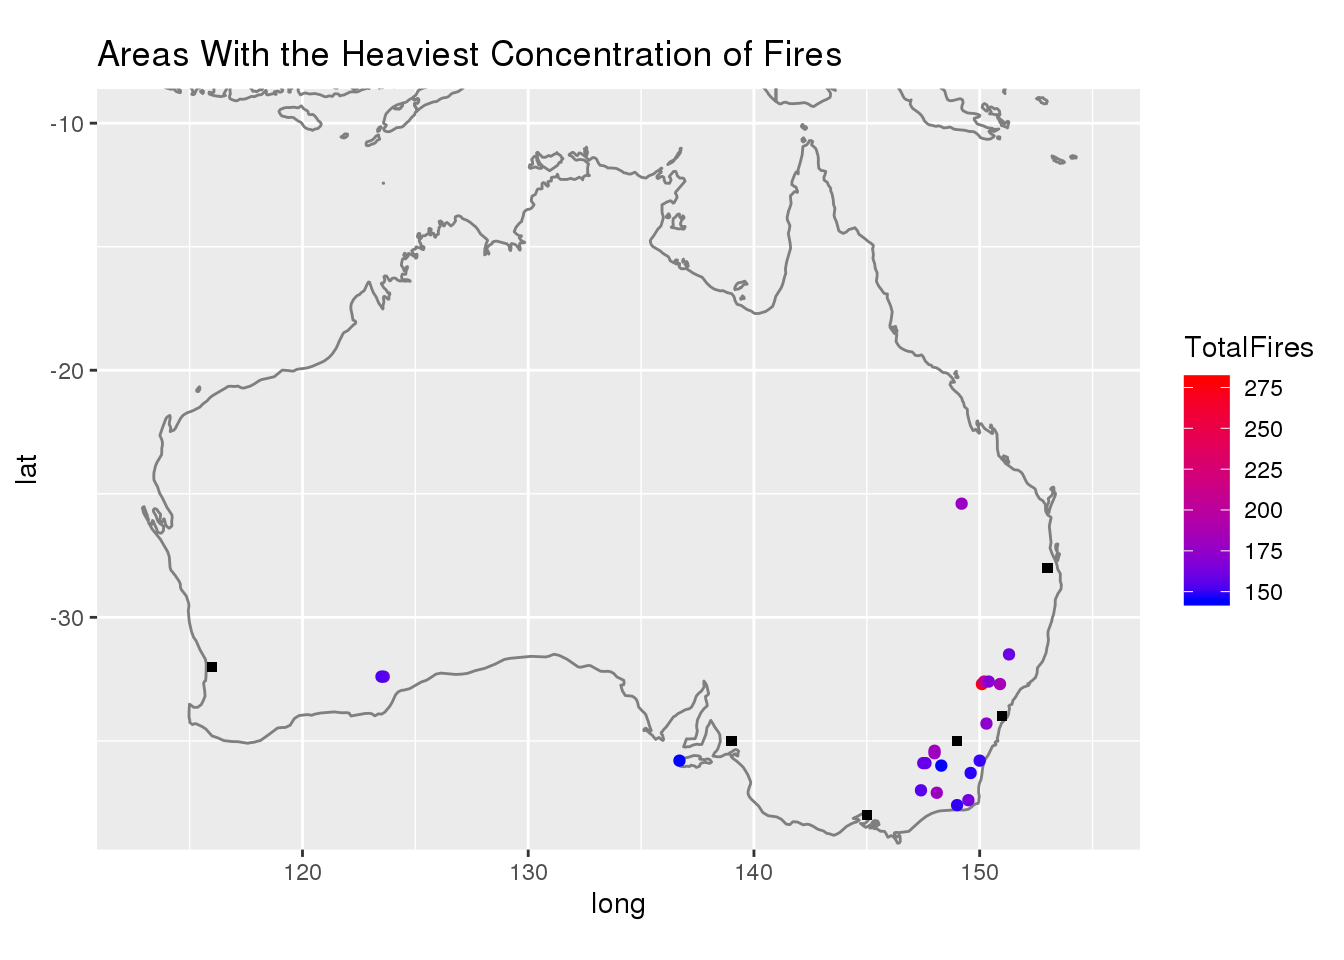
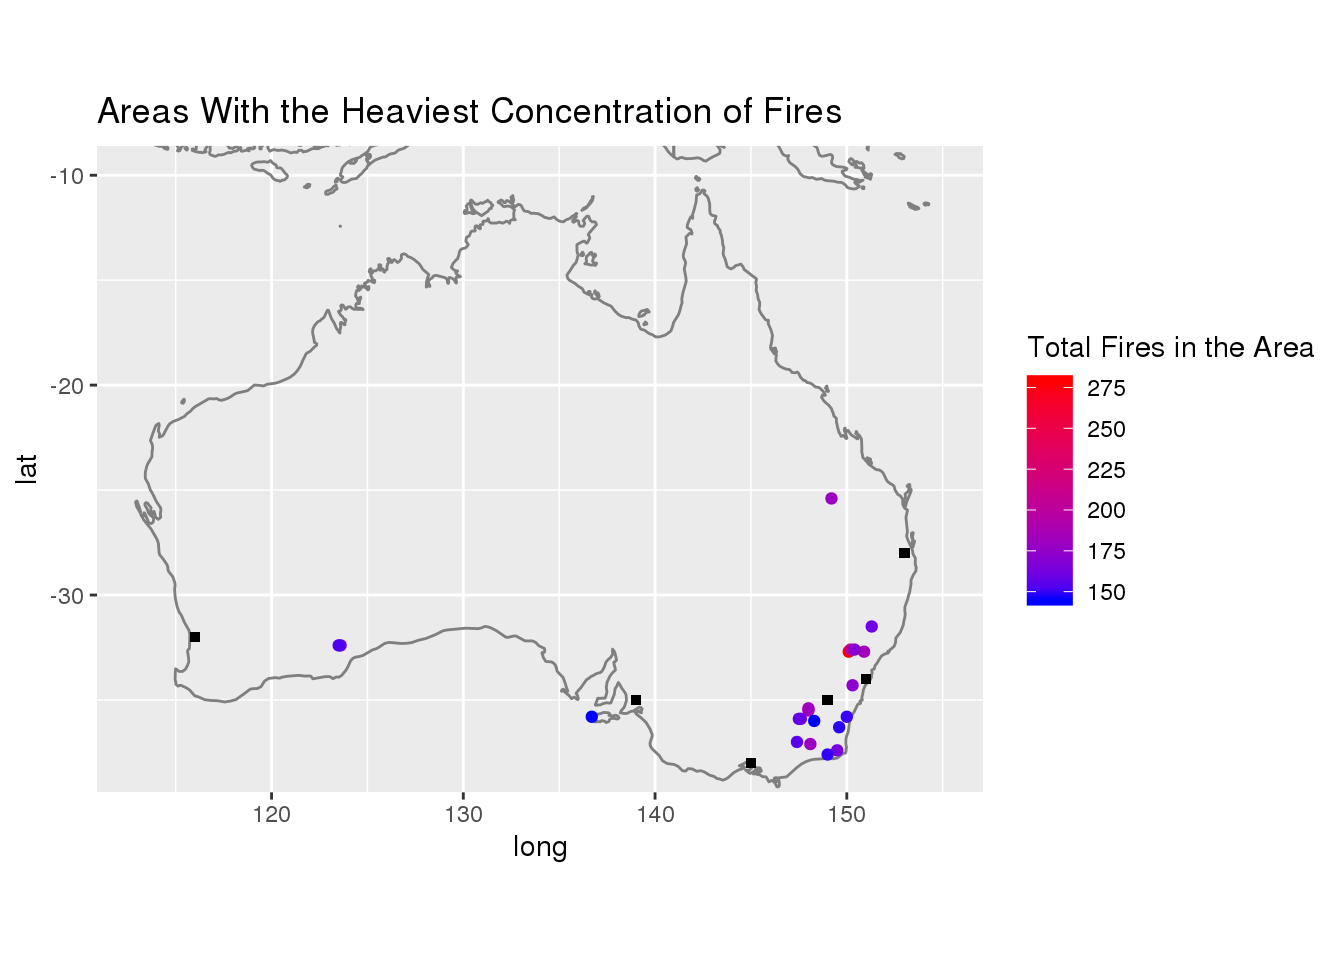
Update

diff --git a/content/post/2020-12-10-a-first-post/index.html b/content/post/2020-12-10-a-first-post/index.html
@@ -11,7 +11,7 @@ tags: []
 <script src="index_files/anchor-sections/anchor-sections.js"></script>
 
 
-<p>Using the volcano data from tinytuesday I will investigate volcanic eruptions and the affect they have on the environment. I will use the volcano, eruptions and sulfur datasets in order to explore this. The volcano dataset contains the variables volcano_number and volcano_name, which can be used to identify the volcanoes, latitude and longitude, doubles which can show where the volcanoes are and primary_volcano_type, a factor with 26 levels which shows what type of volcano it is.</p>
+<p>Using the volcano data from tinytuesday I will investigate volcanic eruptions and the affect they have on the environment. I will use the volcano, eruptions and sulfur datasets in order to explore this. The volcano dataset contains the variables volcano_number and volcano_name, which can be used to identify the volcanoes, population_within_5_km, which is the number of people within 5 km of the volcano, latitude and longitude, doubles which can show where the volcanoes are and primary_volcano_type, a factor with 26 levels which shows what types the volcanoes are. The sulfur dataset contains the variables neem, which is the sulfur detected in ng/g from melting ice cores in Greenland, wdc, which is the sulfur detected in ng/g from melting ice cores in Antarctica, and Year, which is the year in CE that the ice cores were formed.</p>
 <pre class="r"><code>dat1 &lt;- read.csv(here::here(&quot;content&quot;, &quot;post&quot;, &quot;2020-12-10-a-first-post&quot;, &quot;data&quot;, 
     &quot;volcano.csv&quot;))
 dat2 &lt;- read.csv(here::here(&quot;content&quot;, &quot;post&quot;, &quot;2020-12-10-a-first-post&quot;, &quot;data&quot;, 
@@ -40,23 +40,27 @@ ggtitle(&quot;Year vs Sulfur&quot;)</code></pre>
 
 ## Warning: Removed 290 rows containing missing values (geom_path).</code></pre>
 <p><img src="index_files/figure-html/unnamed-chunk-3-1.png" width="672" />
-Most major volcanic eruptions seem to coincide with a large spike in sulfur concentration in either Greenland or Antarctica. However, not all major volcanic eruptions seem to cause a spike in sulfur levels, which could possibly be because these volcanoes are too far away to affect Greenland and Antarctica. This suggests the impact most volcanoes can have on the atmosphere is limited and significantly decreases as distance increases. However, within their range, volcanoes seem to have a large, although somewhat temporary affect on the atmosphere.</p>
+Most major volcanic eruptions seem to coincide with a large spike in sulfur concentration in either Greenland or Antarctica. However, not all major volcanic eruptions seem to cause a spike in sulfur levels, which could possibly be because these volcanoes are too far away and lack the power to affect Greenland and Antarctica. This suggests the impact most volcanic eruptions can have on the atmosphere is limited and significantly decreases as distance increases. However, within their range, volcanoes seem to have a large, although temporary affect on the atmosphere.</p>
 </div>
 <div id="question-2" class="section level1">
 <h1>Question 2:</h1>
-<p>Are there any areas currently at risk from volcano eruptions?</p>
+<p>Are there any areas where a large amount of people live that are currently at risk from volcano eruptions and how many people are living near it? To determine this, I will create a map of the various volcanoes around the world with populations of at least 1000 people within 5 kilometers of it and color them based on the total population within 5 kilometers.</p>
 <pre class="r"><code>dat1 %&gt;% 
 left_join(dat2, by = c(&quot;volcano_number&quot;, &quot;volcano_name&quot;, &quot;longitude&quot;, &quot;latitude&quot;)) %&gt;% 
     
 group_by(volcano_name, volcano_number) %&gt;% 
-filter(start_year &gt;= 1800, start_year == max(start_year)) %&gt;% 
-select(region, longitude, latitude) %&gt;% 
-ggplot(aes(longitude, latitude)) + 
+filter(start_year &gt;= 1800, start_year == max(start_year), population_within_5_km &gt;= 
+    1000) %&gt;% 
+select(region, longitude, latitude, population_within_5_km) %&gt;% 
+ggplot(aes(longitude, latitude, color = population_within_5_km/1e+06)) + 
 geom_point() + 
 borders(&quot;world&quot;) + 
 coord_quickmap() + 
-ggtitle(&quot;Location of Recently Erupted Volcanoes&quot;)</code></pre>
-<p><img src="index_files/figure-html/unnamed-chunk-4-1.png" width="672" /></p>
+ggtitle(&quot;Locations of Recently Erupted Volcanoes with nearby People&quot;) + 
+theme(legend.position = &quot;bottom&quot;) + 
+scale_color_gradient(name = &quot;Population within 5 km (Millions)&quot;, low = &quot;blue&quot;, high = &quot;red&quot;)</code></pre>
+<p><img src="index_files/figure-html/unnamed-chunk-4-1.png" width="672" />
+Alot of active volcanoes seem to be located on the coasts of continents. A location in Mexico seems to</p>
 </div>
 <div id="question-3" class="section level1">
 <h1>Question 3:</h1>

diff --git a/content/post/2020-12-13-australia-fires/index.html b/content/post/2020-12-13-australia-fires/index.html
@@ -76,7 +76,8 @@ borders(&quot;world&quot;) +
 coord_quickmap(xlim = 113:155, ylim = -38:-10) + 
 geom_point(data = FireMap, aes(longitude, latitude, color = TotalFires)) + 
 guides(size = FALSE) + 
-scale_color_gradient(low = &quot;blue&quot;, high = &quot;red&quot;) + 
+scale_color_gradient(name = &quot;Total Fires in the Area&quot;, low = &quot;blue&quot;, high = &quot;red&quot;) + 
+    
 geom_point(data = CityCoord, aes(x = longitude, y = latitude, shape = 15)) + 
 scale_shape_identity() + 
 ggtitle(&quot;Areas With the Heaviest Concentration of Fires&quot;)</code></pre>
